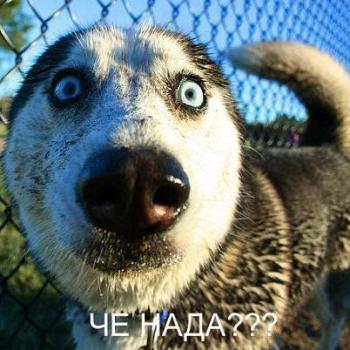
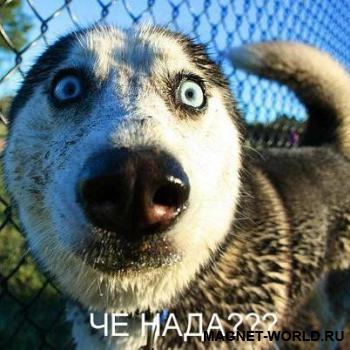
20161215 autologo

Changed region(s): [[0.5714, 0.9429, 1.0, 0.9714]]

diff --git a/srv/Image.php b/srv/Image.php
@@ -8,6 +8,8 @@
 
 namespace app\srv;
 
+use Yii;
+
 class Image {
     static private function getImageInfo($filename){
         if(file_exists($filename)){
@@ -91,6 +93,9 @@ class Image {
         $new_image = imagecreatetruecolor($width, $height);
         $cur_image = $func($filename);
 
+        $logo = imagecreatefrompng(Yii::getAlias('@webroot') . '/img/magnetworld.png');
+
+
         imagecopyresampled(
             $new_image,
             $cur_image,
@@ -101,8 +106,16 @@ class Image {
             $height,
             $fileinfo['width'] - $x_offset * 2,
             $fileinfo['height'] - $y_offset * 2);
+
+        imagecopy($new_image, $logo, $width - 150, $height - 20, 0, 0, 150, 20);
         $func = 'image' . explode('/', $fileinfo['mime'])[1];
         $func($new_image, dirname($filename) . '/' . $fl[0] . '_' . $width . 'x' . $height . '.' . $fl[1]);
+
+
+        imagedestroy($logo);
+        imagedestroy($new_image);
+        imagedestroy($cur_image);
+
         return dirname($filename) . '/' . $fl[0] . '_' . $width . 'x' . $height . '.' . $fl[1];
     }
 }
